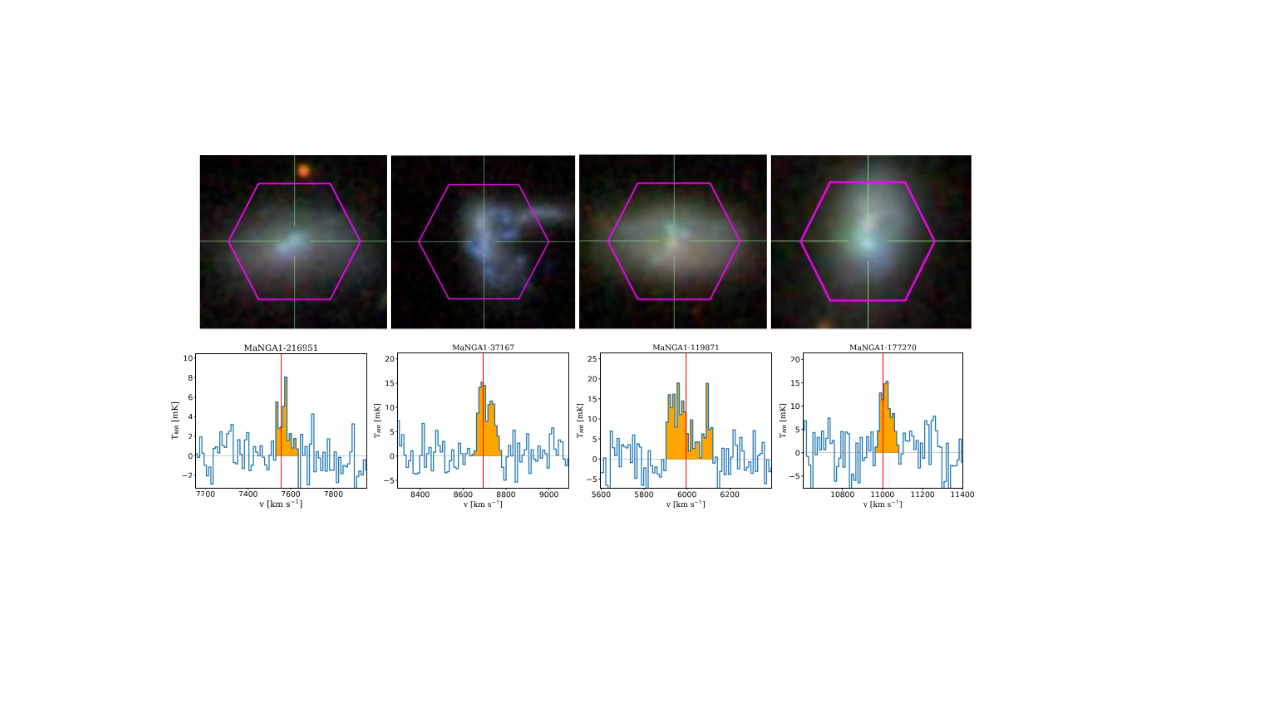
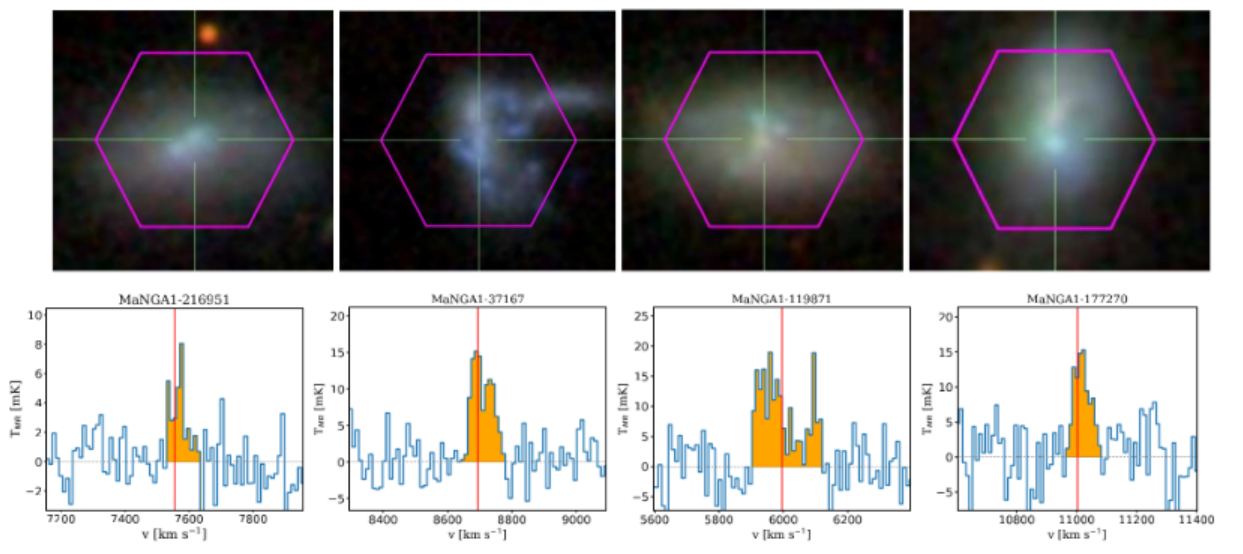
versão teste

diff --git a/public/contact/index.html b/public/contact/index.html
@@ -131,22 +131,21 @@
   <h1>Contact</h1>
   
   <style>
-/* --- 0. CONFIGURAÇÃO BASE --- */
 .container, main.content {
     max-width: none !important; 
     width: auto !important;     
 }
 
-/* --- 1. LARGURA GERAL E CONTAINERS --- */
+/*  LARGURA E CONTAINERS */
 .contact-container {
     width: 100%; 
-    max-width: 1600px; /* Padronizado com as outras páginas */
+    max-width: 1600px;
     margin: 0 auto;    
     padding: 0 20px 50px 20px;
     box-sizing: border-box;
 }
 
-/* --- 2. PADRÃO DO TÍTULO PRINCIPAL --- */
+/*  TÍTULO PRINCIPAL */
 .contact-container h1 {
     text-align: center;
     margin-top: 40px;
@@ -157,7 +156,7 @@
     padding-bottom: 20px;
 }
 
-/* --- 3. LAYOUT EM DUAS COLUNAS --- */
+/* LAYOUT EM DUAS COLUNAS  */
 .contact-content {
     display: flex;
     flex-wrap: wrap;
@@ -179,9 +178,9 @@
     font-size: 1.4rem;
 }
 
-/* --- 4. COLUNA DO MAPA E BOTÃO --- */
+/*  MAPA E BOTÃO  */
 .contact-map {
-    flex: 1.5; /* O mapa ocupa um espaço levemente maior */
+    flex: 1.5; 
     min-width: 300px;
     display: flex;
     flex-direction: column;
@@ -205,7 +204,7 @@
     font-weight: 600;
     text-decoration: none;
     transition: all 0.2s ease;
-    align-self: flex-start; /* Alinha o botão à esquerda sob o mapa */
+    align-self: flex-start; 
 }
 
 .route-button:hover {
@@ -219,7 +218,7 @@
 <div class="contact-container">
 <h1>Contact</h1>
 <div class="contact-content">
-<!-- COLUNA DA ESQUERDA: TEXTO E ENDEREÇO -->
+<!-- TEXTO E ENDEREÇO -->
 <div class="contact-info">
     <h3>Where to find us</h3>
     <p>You can visit us at the Valongo Observatory, part of the Federal University of Rio de Janeiro (UFRJ).</p>
@@ -235,7 +234,7 @@
     <strong>Email:</strong> marco@astro.ufrj.br
 </p>
 </div>
-<!-- COLUNA DA DIREITA: MAPA E BOTÃO -->
+<!-- MAPA E BOTÃO -->
 <div class="contact-map">
     <iframe 
         src="https://maps.google.com/maps?q=Observatório%20do%20Valongo&t=&z=15&ie=UTF8&iwloc=&output=embed" 

diff --git a/public/research/index.html b/public/research/index.html
@@ -275,7 +275,7 @@
     </div>
 <div class="research-image">
     <div class="image-grid" style="flex-direction: row;">
-        <img class="full-width" src="http://localhost:1313/images/rect2.png" alt="JCMT Spectra">
+        <img class="full-width" src="http://localhost:1313/images/Malhucos2.png" alt="JCMT Spectra">
 </div>
     <div class="plot-caption">Combined gri SDSS images of a subset of the MaLHUCOS sample with the MaNGA hexagonal field of view overlaid (32″ diameter, top row). Example of the JCMT spectra showing the detected CO(J=2-1) emission line (bottom row).
     </div>

diff --git a/public/publications/index.html b/public/publications/index.html
@@ -267,7 +267,7 @@
 </div>
 <div class="data-section">
     <strong>Data Access</strong>
-    Tables, photometric data, and catalogs from this survey are publicly available.
+    Tables, photometric data, and catalogs from this paper are publicly available.
     <div class="data-links">
         <a href="#">↳ Data Tables (CSV/FITS) on Google Drive</a>
         <a href="#">↳ Code & Scripts on GitHub</a>

diff --git a/content/contact.md b/content/contact.md
@@ -3,22 +3,21 @@ title: "Contact"
 ---
 
 <style>
-/* --- 0. CONFIGURAÇÃO BASE --- */
 .container, main.content {
     max-width: none !important; 
     width: auto !important;     
 }
 
-/* --- 1. LARGURA GERAL E CONTAINERS --- */
+/*  LARGURA E CONTAINERS */
 .contact-container {
     width: 100%; 
-    max-width: 1600px; /* Padronizado com as outras páginas */
+    max-width: 1600px;
     margin: 0 auto;    
     padding: 0 20px 50px 20px;
     box-sizing: border-box;
 }
 
-/* --- 2. PADRÃO DO TÍTULO PRINCIPAL --- */
+/*  TÍTULO PRINCIPAL */
 .contact-container h1 {
     text-align: center;
     margin-top: 40px;
@@ -29,7 +28,7 @@ title: "Contact"
     padding-bottom: 20px;
 }
 
-/* --- 3. LAYOUT EM DUAS COLUNAS --- */
+/* LAYOUT EM DUAS COLUNAS  */
 .contact-content {
     display: flex;
     flex-wrap: wrap;
@@ -51,9 +50,9 @@ title: "Contact"
     font-size: 1.4rem;
 }
 
-/* --- 4. COLUNA DO MAPA E BOTÃO --- */
+/*  MAPA E BOTÃO  */
 .contact-map {
-    flex: 1.5; /* O mapa ocupa um espaço levemente maior */
+    flex: 1.5; 
     min-width: 300px;
     display: flex;
     flex-direction: column;
@@ -77,7 +76,7 @@ title: "Contact"
     font-weight: 600;
     text-decoration: none;
     transition: all 0.2s ease;
-    align-self: flex-start; /* Alinha o botão à esquerda sob o mapa */
+    align-self: flex-start; 
 }
 
 .route-button:hover {
@@ -95,7 +94,7 @@ title: "Contact"
 
 <div class="contact-content">
     
-<!-- COLUNA DA ESQUERDA: TEXTO E ENDEREÇO -->
+<!-- TEXTO E ENDEREÇO -->
 <div class="contact-info">
     <h3>Where to find us</h3>
     <p>You can visit us at the Valongo Observatory, part of the Federal University of Rio de Janeiro (UFRJ).</p>
@@ -114,7 +113,7 @@ title: "Contact"
 </p>
 </div>
 
-<!-- COLUNA DA DIREITA: MAPA E BOTÃO -->
+<!-- MAPA E BOTÃO -->
 <div class="contact-map">
     <iframe 
         src="https://maps.google.com/maps?q=Observatório%20do%20Valongo&t=&z=15&ie=UTF8&iwloc=&output=embed" 

diff --git a/content/research.md b/content/research.md
@@ -153,7 +153,7 @@ title: "Research"
 
 <div class="research-image">
     <div class="image-grid" style="flex-direction: row;">
-        <img class="full-width" src="/images/rect2.png" alt="JCMT Spectra">
+        <img class="full-width" src="/images/Malhucos2.png" alt="JCMT Spectra">
 
 </div>
     <div class="plot-caption">Combined gri SDSS images of a subset of the MaLHUCOS sample with the MaNGA hexagonal field of view overlaid (32″ diameter, top row). Example of the JCMT spectra showing the detected CO(J=2-1) emission line (bottom row).

diff --git a/content/publications.md b/content/publications.md
@@ -145,7 +145,7 @@ title: "Publications & Data"
 
 <div class="data-section">
     <strong>Data Access</strong>
-    Tables, photometric data, and catalogs from this survey are publicly available.
+    Tables, photometric data, and catalogs from this paper are publicly available.
     <div class="data-links">
         <a href="#">↳ Data Tables (CSV/FITS) on Google Drive</a>
         <a href="#">↳ Code & Scripts on GitHub</a>
